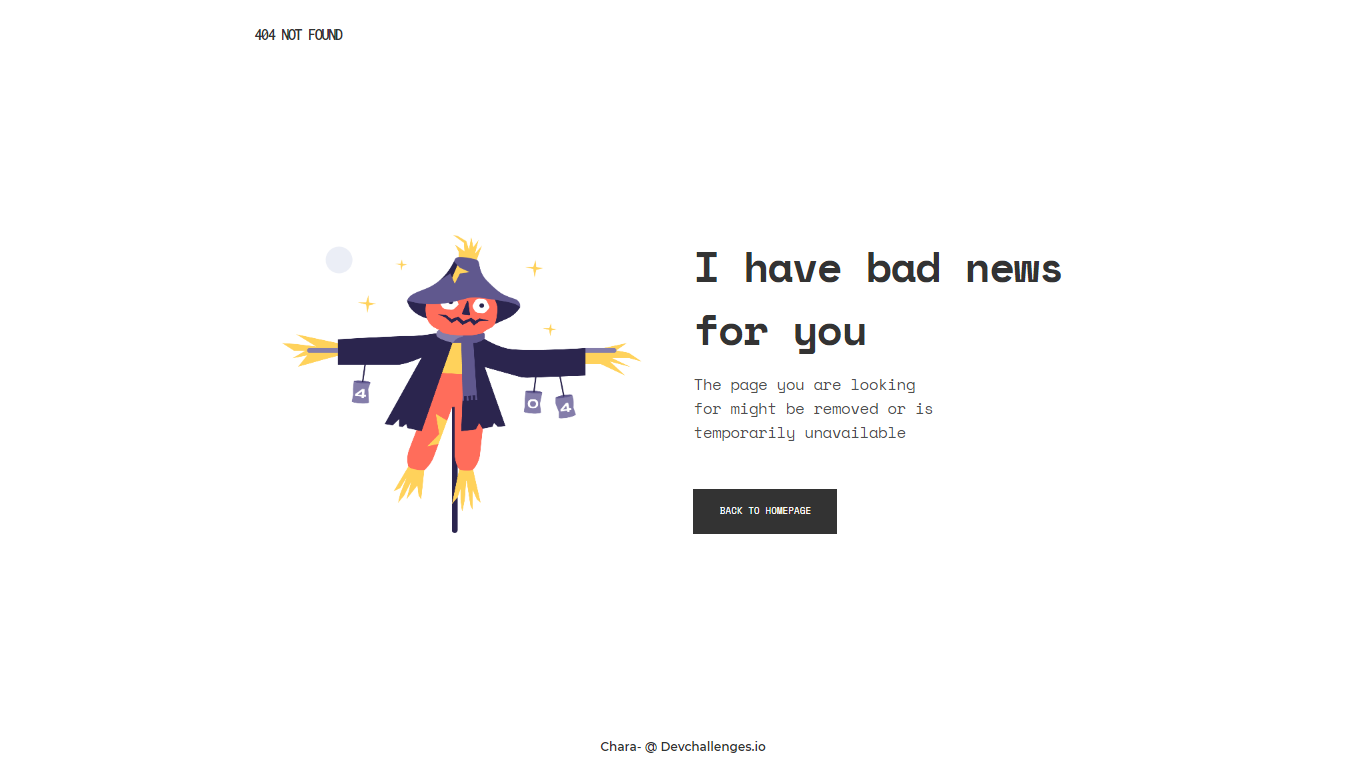
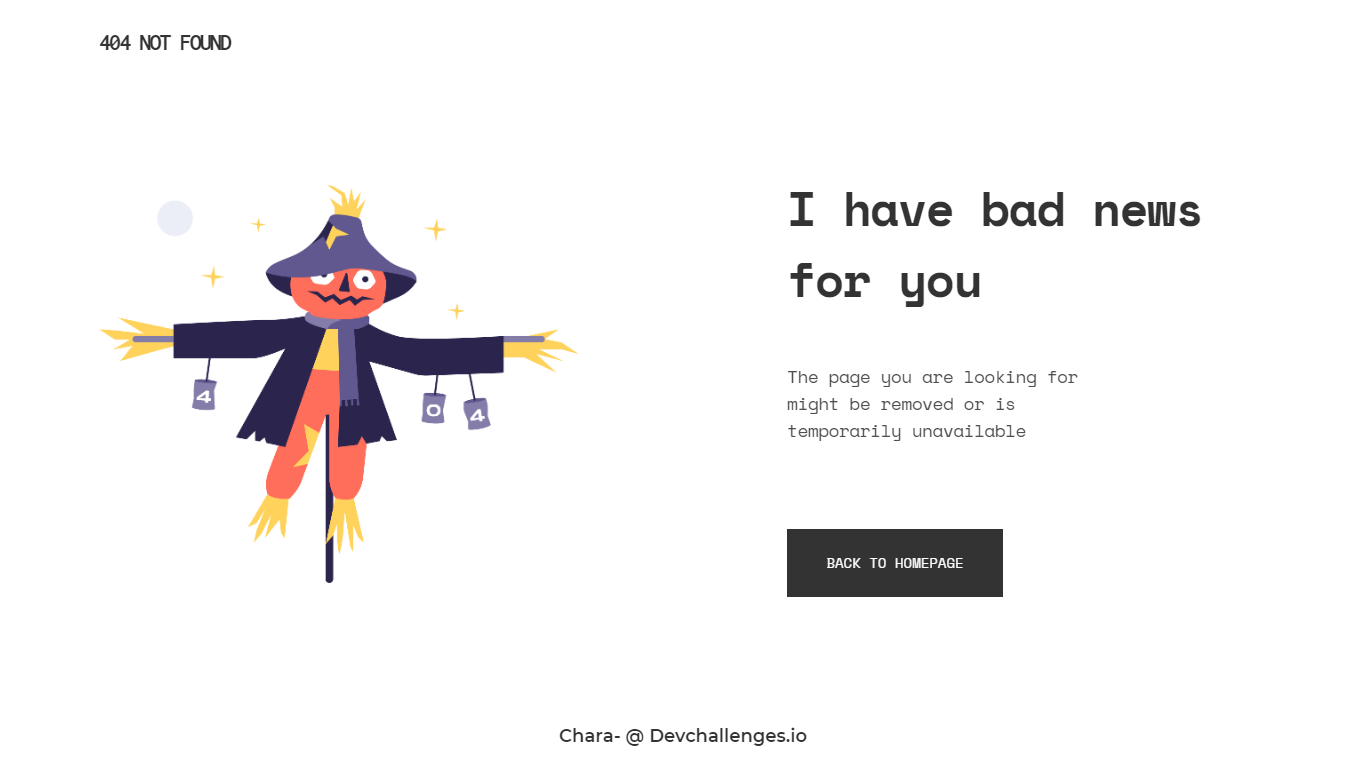
image_preview changed

diff --git a/src/components/Description.js b/src/components/Description.js
@@ -18,6 +18,11 @@ const Wrapper = styled.div`
     height: 400px;
   `};
 
+  ${media.smDesktop`
+    width: 480px;
+    height: 425px;
+  `};
+
   ${media.lgDesktop`
     width: 586px;
     height: 450px;

diff --git a/src/components/Image.js b/src/components/Image.js
@@ -8,6 +8,10 @@ const Wrapper = styled.div`
     width: 430px;
   `};
 
+  ${media.smDesktop`
+    width: 480px;
+  `};
+
   ${media.lgDesktop`
     width: 540px;
   `};

diff --git a/README.md b/README.md
@@ -1,5 +1,3 @@
-<!-- Please update value in the {}  -->
-
 <h1 align="center">404 Not Found</h1>
 
 <div align="center">
